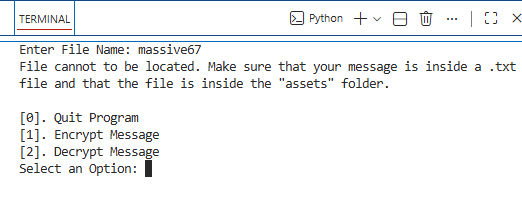
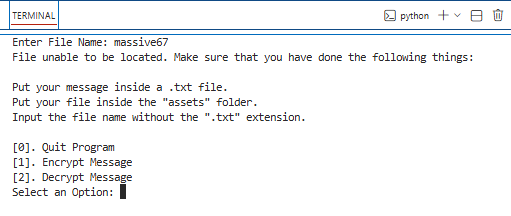
Changed FileNotFoundError message

Changed region(s): [[0.0, 0.0, 1.0, 0.9442]]

diff --git a/mah_enigma.py b/mah_enigma.py
@@ -41,7 +41,10 @@ def encrypt_decrypt_message(cipher_direction):
 		with open(f"assets/{file_name}.txt", "r") as file:
 			message = file.read()
 	except FileNotFoundError:
-		print('File unable to be located. Make sure that your message is inside a .txt file and that the file is inside the "assets" folder.\n')
+		print('File unable to be located. Make sure that you have done the following things:\n')
+		print('Put your message inside a .txt file.')
+		print('Put your file inside the "assets" folder.')
+		print('Input the file name without the ".txt" extension.\n')
 		return
 
 	# Input validation for the Key
